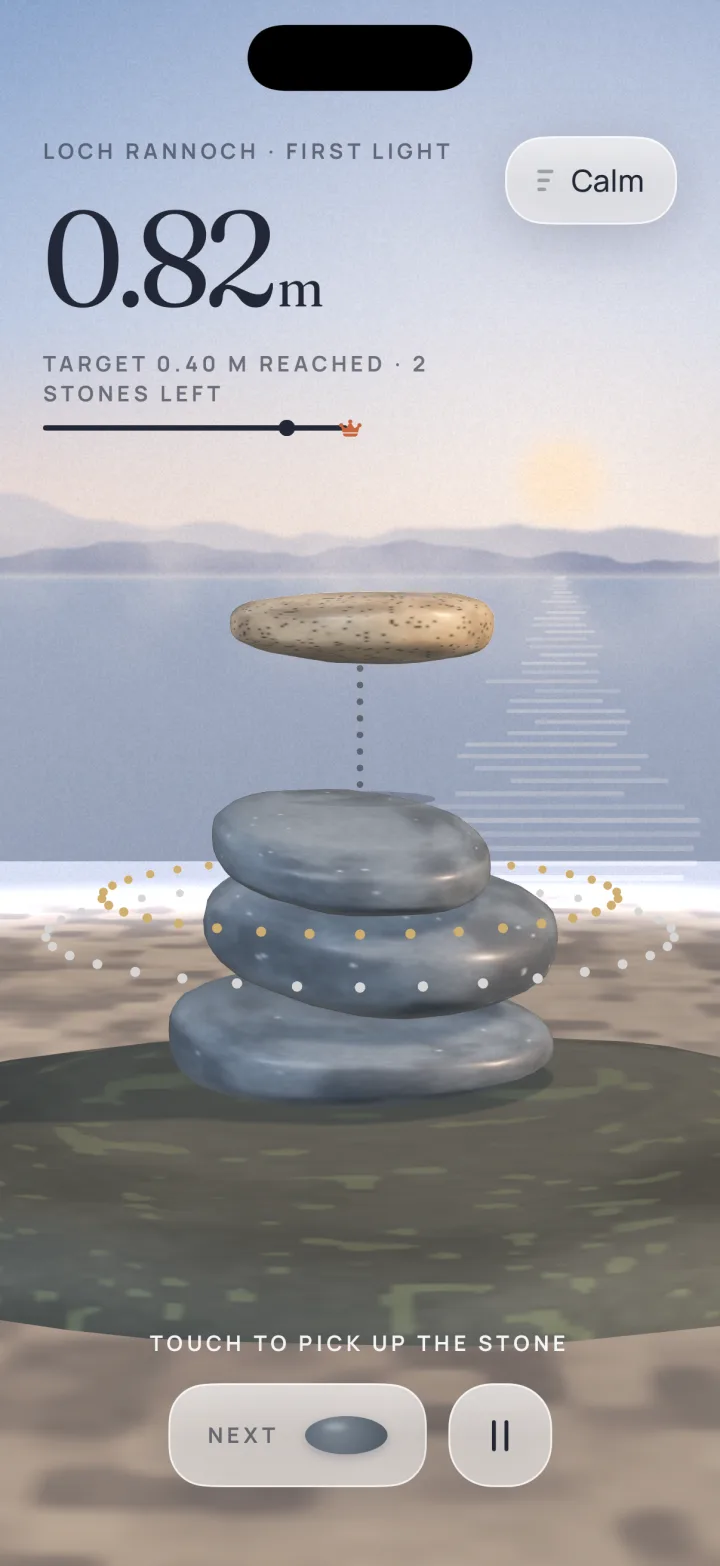
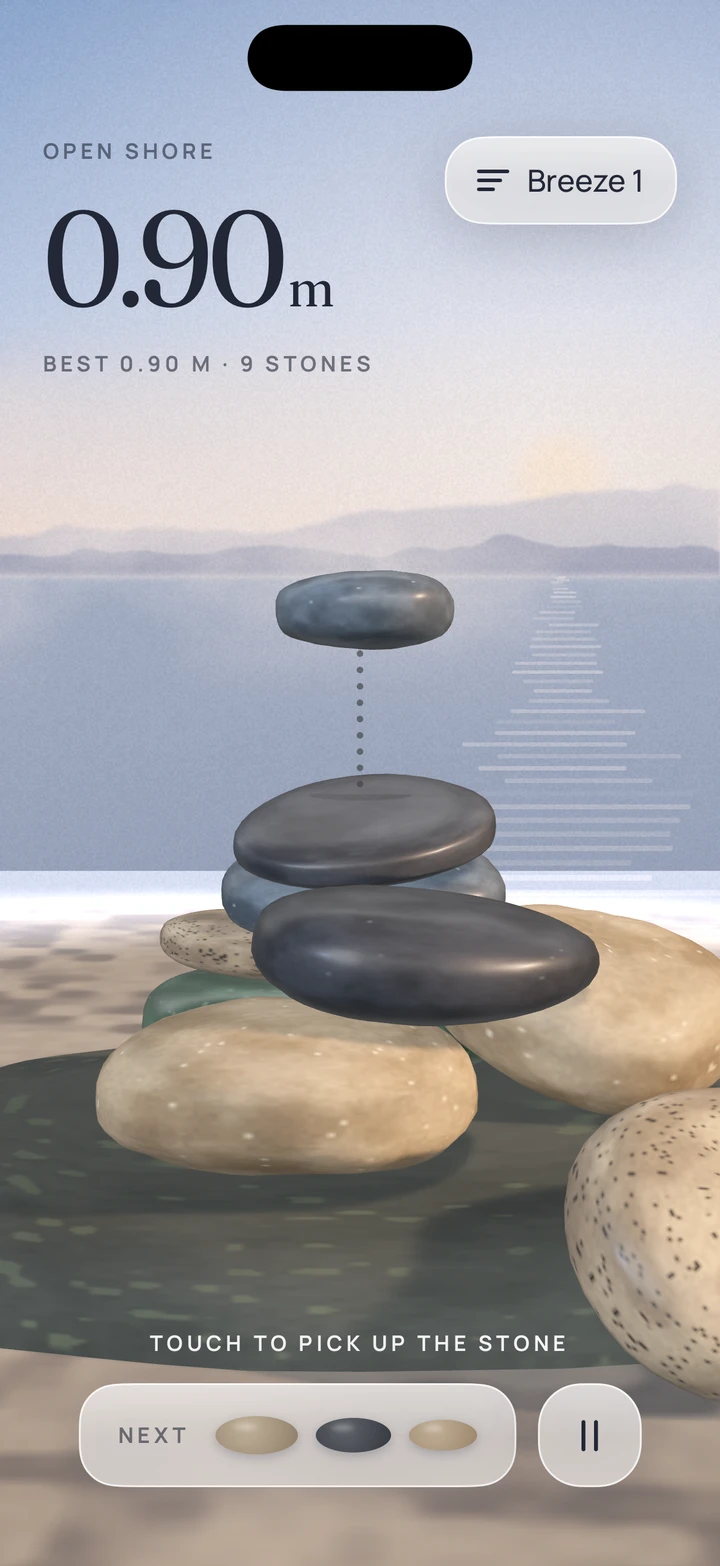
feat(games): new game stills and a changelog entry for the five new games

diff --git a/lib/changelog.ts b/lib/changelog.ts
@@ -7,6 +7,20 @@ import type { ChangelogEntry } from "@/components/changelog/changelog-grid";
  */
 export const changelog: ChangelogEntry[] = [
   {
+    slug: "five-new-games",
+    date: "Nov 8, 2026",
+    title: "Five new games",
+    summary: "SwiftPieces Games grows to ten: Cairn, Pane, Parlour, Thrum and Ripple join the launch five, each a finished iOS game in SwiftUI and Metal with its full Xcode project.",
+    points: [
+      "Cairn stacks river stones in real 3D physics on a misty loch. Pane is two-player strategy in a stained-glass window, online with Game Center or pass and play.",
+      "Parlour is card patience on a linen table in window light. Thrum is a rhythm game on five strings of light. Ripple is a wave puzzle where rings on a night pond carry gold leaves into the moon.",
+      "The navbar's Games menu lists all ten, newest first, and the docs' Games page under Explore Pro shows each one mid-play with a New badge on the new five.",
+      "Their stills and loops were reshot to show each game at its best moment. Games owners get all five at no extra cost, as with every game added later.",
+    ],
+    visual: "phones",
+    tint: "red",
+  },
+  {
     slug: "eleven-everyday-pieces",
     date: "Nov 8, 2026",
     title: "Eleven everyday pieces",
